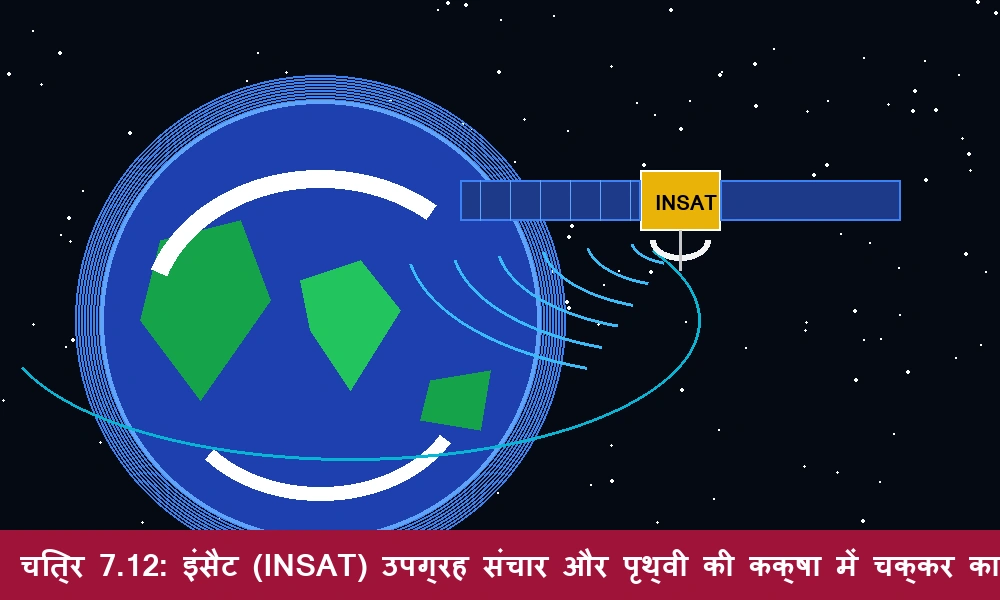
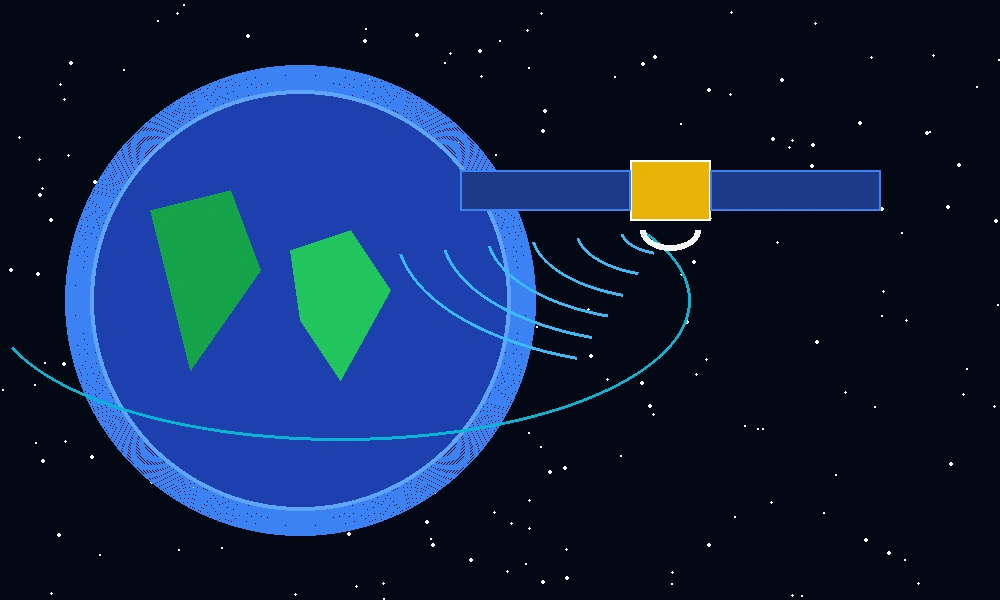
Embed live 3D Canvas Satellite Orbit Simulator for Fig 7.12 and clean text overlays

Changed region(s): [[0.0, 0.09, 1.0, 1.0], [0.31, 0.42, 0.465, 0.66], [0.434, 0.51, 0.465, 0.54]]

diff --git a/copy_master_geo7.html b/copy_master_geo7.html
@@ -587,14 +587,177 @@
 
     <div class="topic-header">4.2 संचार सेवाएं (Communication Services):</div>
 
-    <div class="img-box">
-        <img src="images/geo7/ncert_geo7_fig12_satellite_communication.webp" alt="चित्र 7.12 (आधिकारिक NCERT हिंदी पाठ्यपुस्तक अध्याय 7): इंसैट (INSAT) उपग्रह संचार और पृथ्वी की कक्षा में चक्कर काटता उपग्रह।">
-        <div class="img-caption">चित्र 7.12 (आधिकारिक NCERT हिंदी पाठ्यपुस्तक अध्याय 7): इंसैट (INSAT) उपग्रह संचार और पृथ्वी की कक्षा में चक्कर काटता उपग्रह (INSAT Satellite Orbiting Earth)।</div>
-        <div class="img-desc">
-            <b>🔍 चित्र का विस्तृत विवरण & भौगोलिक संदर्भ:</b><br>
-            • <b>क्या दर्शाता है:</b> अंतरिक्ष में पृथ्वी की कक्षा में चक्कर काटता भारतीय इंसैट (INSAT) उपग्रह संचार नेटवर्क।<br>
-            • <b>भौगोलिक महत्व:</b> उपग्रह संचार ने देशव्यापी दूरदर्शन, आकाशवाणी, इंटरनेट, मोबाइल कनेक्टिविटी तथा चक्रवात/मौसम चेतावनियों को पूरे भारत से जोड़ दिया है।
+    <div class="img-box" style="background: #020617; border: 5px solid #0284c7; box-shadow: 0 12px 35px rgba(2, 132, 199, 0.4);">
+        <div style="font-size: 26pt; font-weight: 900; color: #38bdf8; margin-bottom: 20px; text-shadow: 0 0 10px rgba(56, 189, 248, 0.5);">
+            📡 3D लाइव सिम्युलेटर (Live Orbit Simulator): इंसैट (INSAT) उपग्रह का पृथ्वी की कक्षा में परिक्रमण
         </div>
+        
+        <canvas id="satelliteOrbitCanvas" width="900" height="520" style="background: #020617; border-radius: 18px; border: 3px solid #1e293b; display: block; margin: 0 auto; box-shadow: inset 0 0 30px rgba(0,0,0,0.8);"></canvas>
+        
+        <div style="margin-top: 22px; text-align: center;">
+            <button onclick="toggleOrbitPlay()" id="playBtn" style="font-size: 22pt; font-weight: 900; padding: 14px 32px; background: #0284c7; color: white !important; border: none; border-radius: 14px; cursor: pointer; margin-right: 20px; box-shadow: 0 4px 14px rgba(2, 132, 199, 0.5);">⏸ पॉज़ / प्ले (Pause/Play)</button>
+            <button onclick="changeOrbitSpeed()" id="speedBtn" style="font-size: 22pt; font-weight: 900; padding: 14px 32px; background: #0369a1; color: white !important; border: none; border-radius: 14px; cursor: pointer; box-shadow: 0 4px 14px rgba(3, 105, 161, 0.5);">⚡ गति: 1x (Speed)</button>
+        </div>
+        
+        <div class="img-caption" style="margin-top: 25px; background: #0369a1; color: #ffffff !important; border-color: #38bdf8;">
+            चित्र 7.12 (आधिकारिक NCERT हिंदी पाठ्यपुस्तक अध्याय 7): इंसैट (INSAT) उपग्रह संचार और पृथ्वी की कक्षा में चक्कर काटता उपग्रह (INSAT Satellite Orbiting Earth)।
+        </div>
+        
+        <div class="img-desc" style="background: #0f172a; border-left-color: #38bdf8; color: #e2e8f0 !important;">
+            <b style="color: #38bdf8 !important;">🔍 सिम्युलेटर एवं चित्र का विस्तृत विवरण & भौगोलिक संदर्भ:</b><br>
+            • <b>क्या दर्शाता है:</b> अंतरिक्ष में पृथ्वी की कक्षा में 360° निरंतर चक्र लगाता भारतीय इंसैट (INSAT) संचार उपग्रह जो भारत पर सिग्नेचर रेडियो बीम (Radio Signals) भेजता है।<br>
+            • <b>भौगोलिक महत्व:</b> उपग्रह संचार ने देशव्यापी दूरदर्शन, आकाशवाणी, दूरसंचार, मोबाइल नेटवर्क तथा चक्रवात/मौसम चेतावनियों को पूरे भारत से जोड़ दिया है।
+        </div>
+        
+        <script>
+            (function() {
+                var canvas = document.getElementById('satelliteOrbitCanvas');
+                if(!canvas) return;
+                var ctx = canvas.getContext('2d');
+                var angle = 0;
+                var isPlaying = true;
+                var speedMultiplier = 1;
+                var pulseRadius = 0;
+                
+                // Stars background
+                var stars = [];
+                for(var i=0; i<120; i++) {
+                    stars.push({
+                        x: Math.random() * canvas.width,
+                        y: Math.random() * canvas.height,
+                        r: Math.random() * 2 + 0.5,
+                        alpha: Math.random()
+                    });
+                }
+                
+                function drawSim() {
+                    ctx.clearRect(0, 0, canvas.width, canvas.height);
+                    
+                    // Draw Stars
+                    stars.forEach(function(s) {
+                        ctx.fillStyle = 'rgba(255, 255, 255, ' + (0.3 + 0.7 * Math.sin(Date.now()*0.003 + s.x)) + ')';
+                        ctx.beginPath();
+                        ctx.arc(s.x, s.y, s.r, 0, Math.PI*2);
+                        ctx.fill();
+                    });
+                    
+                    var cx = canvas.width / 2;
+                    var cy = canvas.height / 2;
+                    var earthR = 110;
+                    
+                    // Atmosphere Outer Glow
+                    var grad = ctx.createRadialGradient(cx, cy, earthR, cx, cy, earthR + 30);
+                    grad.addColorStop(0, 'rgba(56, 189, 248, 0.6)');
+                    grad.addColorStop(1, 'rgba(56, 189, 248, 0)');
+                    ctx.fillStyle = grad;
+                    ctx.beginPath();
+                    ctx.arc(cx, cy, earthR + 30, 0, Math.PI*2);
+                    ctx.fill();
+                    
+                    // Earth Main Sphere
+                    var earthGrad = ctx.createRadialGradient(cx - 30, cy - 30, 20, cx, cy, earthR);
+                    earthGrad.addColorStop(0, '#3b82f6');
+                    earthGrad.addColorStop(0.7, '#1d4ed8');
+                    earthGrad.addColorStop(1, '#0f172a');
+                    ctx.fillStyle = earthGrad;
+                    ctx.beginPath();
+                    ctx.arc(cx, cy, earthR, 0, Math.PI*2);
+                    ctx.fill();
+                    
+                    // India / Asia Landmass (Green Silhouette)
+                    ctx.fillStyle = '#22c55e';
+                    ctx.beginPath();
+                    ctx.moveTo(cx - 10, cy - 35);
+                    ctx.lineTo(cx + 25, cy - 45);
+                    ctx.lineTo(cx + 45, cy - 10);
+                    ctx.lineTo(cx + 20, cy + 45);
+                    ctx.lineTo(cx - 5, cy + 10);
+                    ctx.closePath();
+                    ctx.fill();
+                    
+                    // Elliptical Orbit Track
+                    var rx = 320;
+                    var ry = 140;
+                    ctx.strokeStyle = 'rgba(6, 182, 212, 0.4)';
+                    ctx.lineWidth = 3;
+                    ctx.setLineDash([8, 6]);
+                    ctx.beginPath();
+                    ctx.ellipse(cx, cy, rx, ry, -0.2, 0, Math.PI*2);
+                    ctx.stroke();
+                    ctx.setLineDash([]);
+                    
+                    // Calculate Satellite Position on Orbit
+                    var satX = cx + rx * Math.cos(angle) * Math.cos(-0.2) - ry * Math.sin(angle) * Math.sin(-0.2);
+                    var satY = cy + rx * Math.cos(angle) * Math.sin(-0.2) + ry * Math.sin(angle) * Math.cos(-0.2);
+                    
+                    // Radio Signal Pulse Waves from Satellite to Earth
+                    pulseRadius = (pulseRadius + 1.5 * speedMultiplier) % 120;
+                    ctx.strokeStyle = 'rgba(56, 189, 248, ' + (1 - pulseRadius/120) + ')';
+                    ctx.lineWidth = 3;
+                    ctx.beginPath();
+                    ctx.arc(satX, satY, pulseRadius, 0, Math.PI*2);
+                    ctx.stroke();
+                    
+                    // Beam Line connecting Satellite to India on Earth
+                    ctx.strokeStyle = 'rgba(234, 179, 8, 0.6)';
+                    ctx.lineWidth = 2;
+                    ctx.beginPath();
+                    ctx.moveTo(satX, satY);
+                    ctx.lineTo(cx + 10, cy);
+                    ctx.stroke();
+                    
+                    // Draw ISRO INSAT Satellite Model
+                    ctx.save();
+                    ctx.translate(satX, satY);
+                    ctx.rotate(angle + Math.PI/2);
+                    
+                    // Solar Panels
+                    ctx.fillStyle = '#1e3a8a';
+                    ctx.strokeStyle = '#3b82f6';
+                    ctx.lineWidth = 2;
+                    ctx.fillRect(-65, -10, 45, 20); // Left Solar Panel
+                    ctx.strokeRect(-65, -10, 45, 20);
+                    ctx.fillRect(20, -10, 45, 20);  // Right Solar Panel
+                    ctx.strokeRect(20, -10, 45, 20);
+                    
+                    // Main Body Box (Gold Foil)
+                    ctx.fillStyle = '#eab308';
+                    ctx.strokeStyle = '#ffffff';
+                    ctx.lineWidth = 2;
+                    ctx.fillRect(-20, -15, 40, 30);
+                    ctx.strokeRect(-20, -15, 40, 30);
+                    
+                    // Dish Antenna
+                    ctx.fillStyle = '#f8fafc';
+                    ctx.beginPath();
+                    ctx.arc(0, 15, 14, 0, Math.PI, false);
+                    ctx.fill();
+                    
+                    ctx.restore();
+                    
+                    // Update angle if playing
+                    if(isPlaying) {
+                        angle += 0.015 * speedMultiplier;
+                    }
+                    
+                    requestAnimationFrame(drawSim);
+                }
+                
+                window.toggleOrbitPlay = function() {
+                    isPlaying = !isPlaying;
+                    document.getElementById('playBtn').innerHTML = isPlaying ? "⏸ पॉज़ (Pause)" : "▶ प्ले (Play Orbit)";
+                };
+                
+                window.changeOrbitSpeed = function() {
+                    if(speedMultiplier === 1) speedMultiplier = 2;
+                    else if(speedMultiplier === 2) speedMultiplier = 3;
+                    else speedMultiplier = 1;
+                    document.getElementById('speedBtn').innerHTML = "⚡ गति: " + speedMultiplier + "x";
+                };
+                
+                drawSim();
+            })();
+        </script>
     </div>
 
     <div class="img-box">
